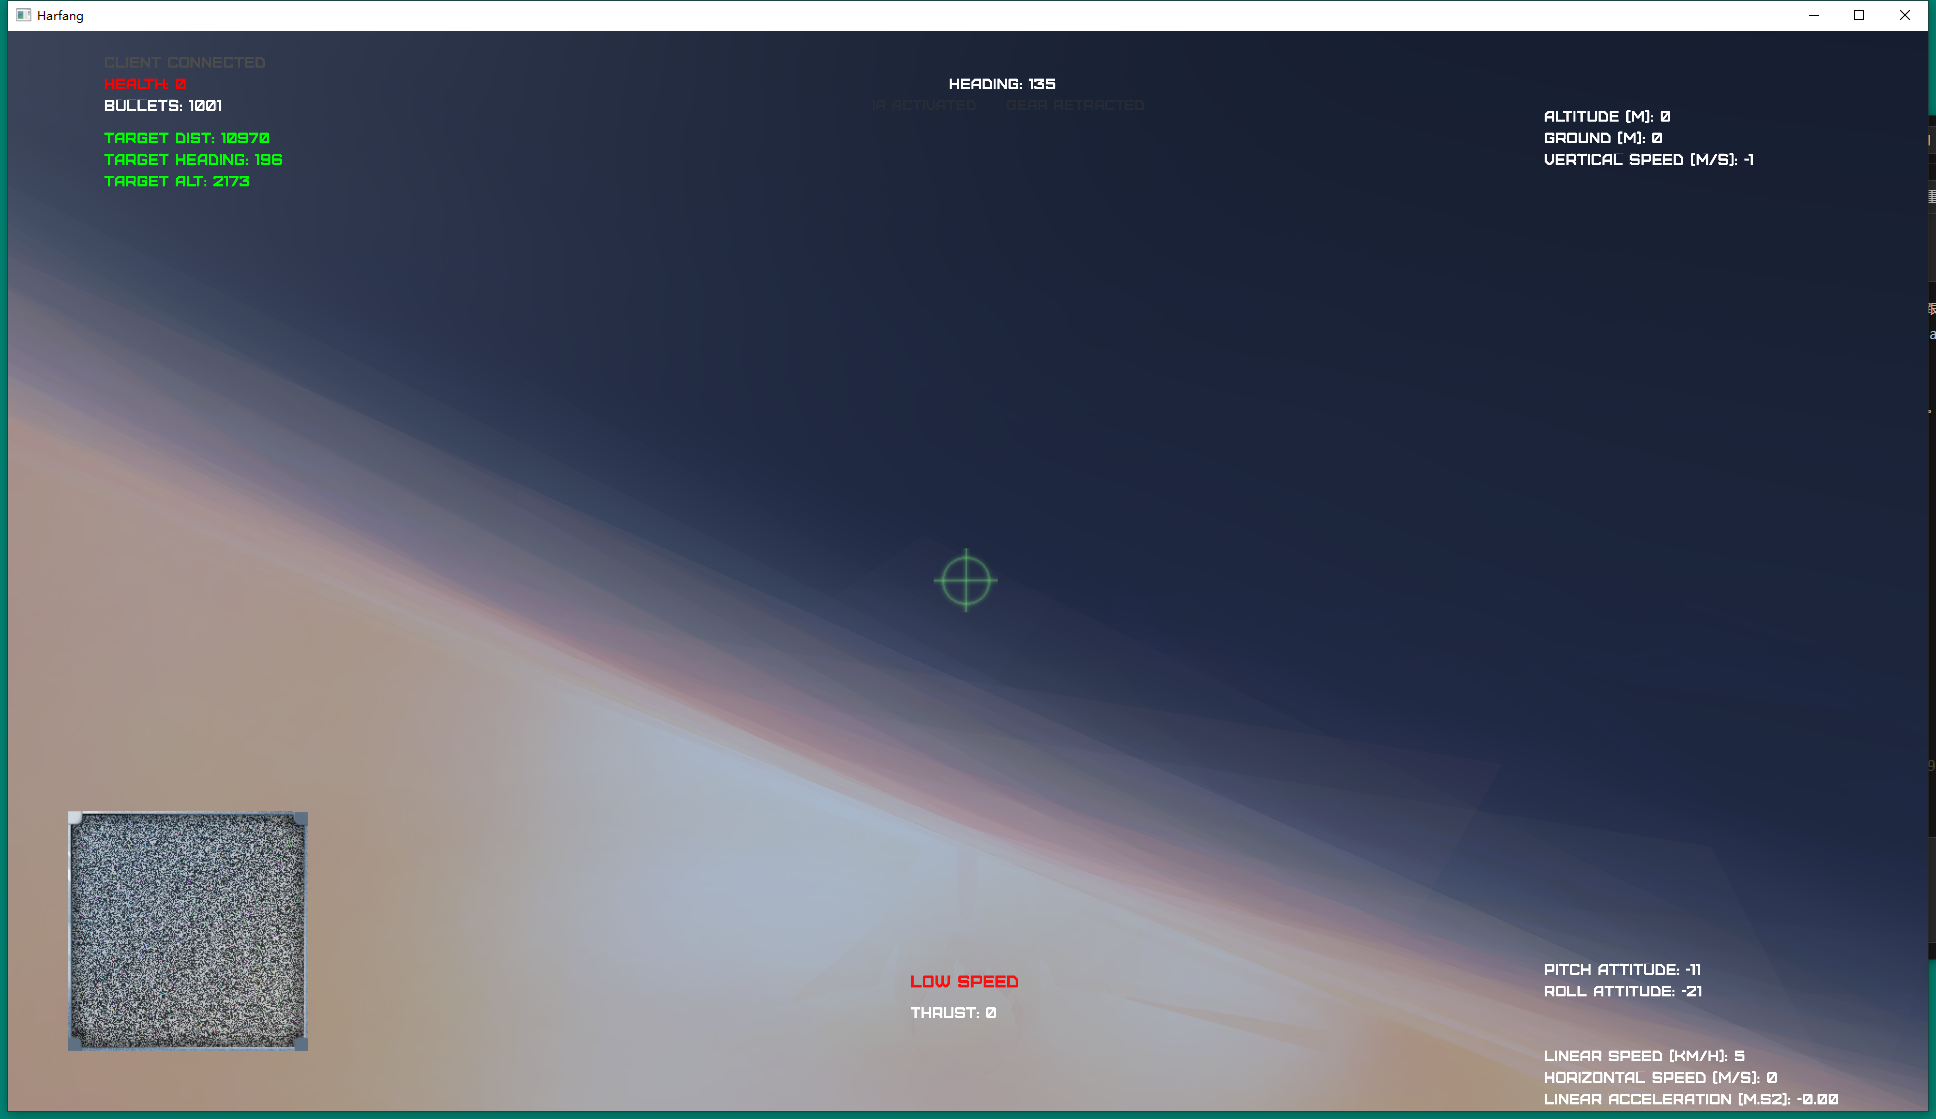
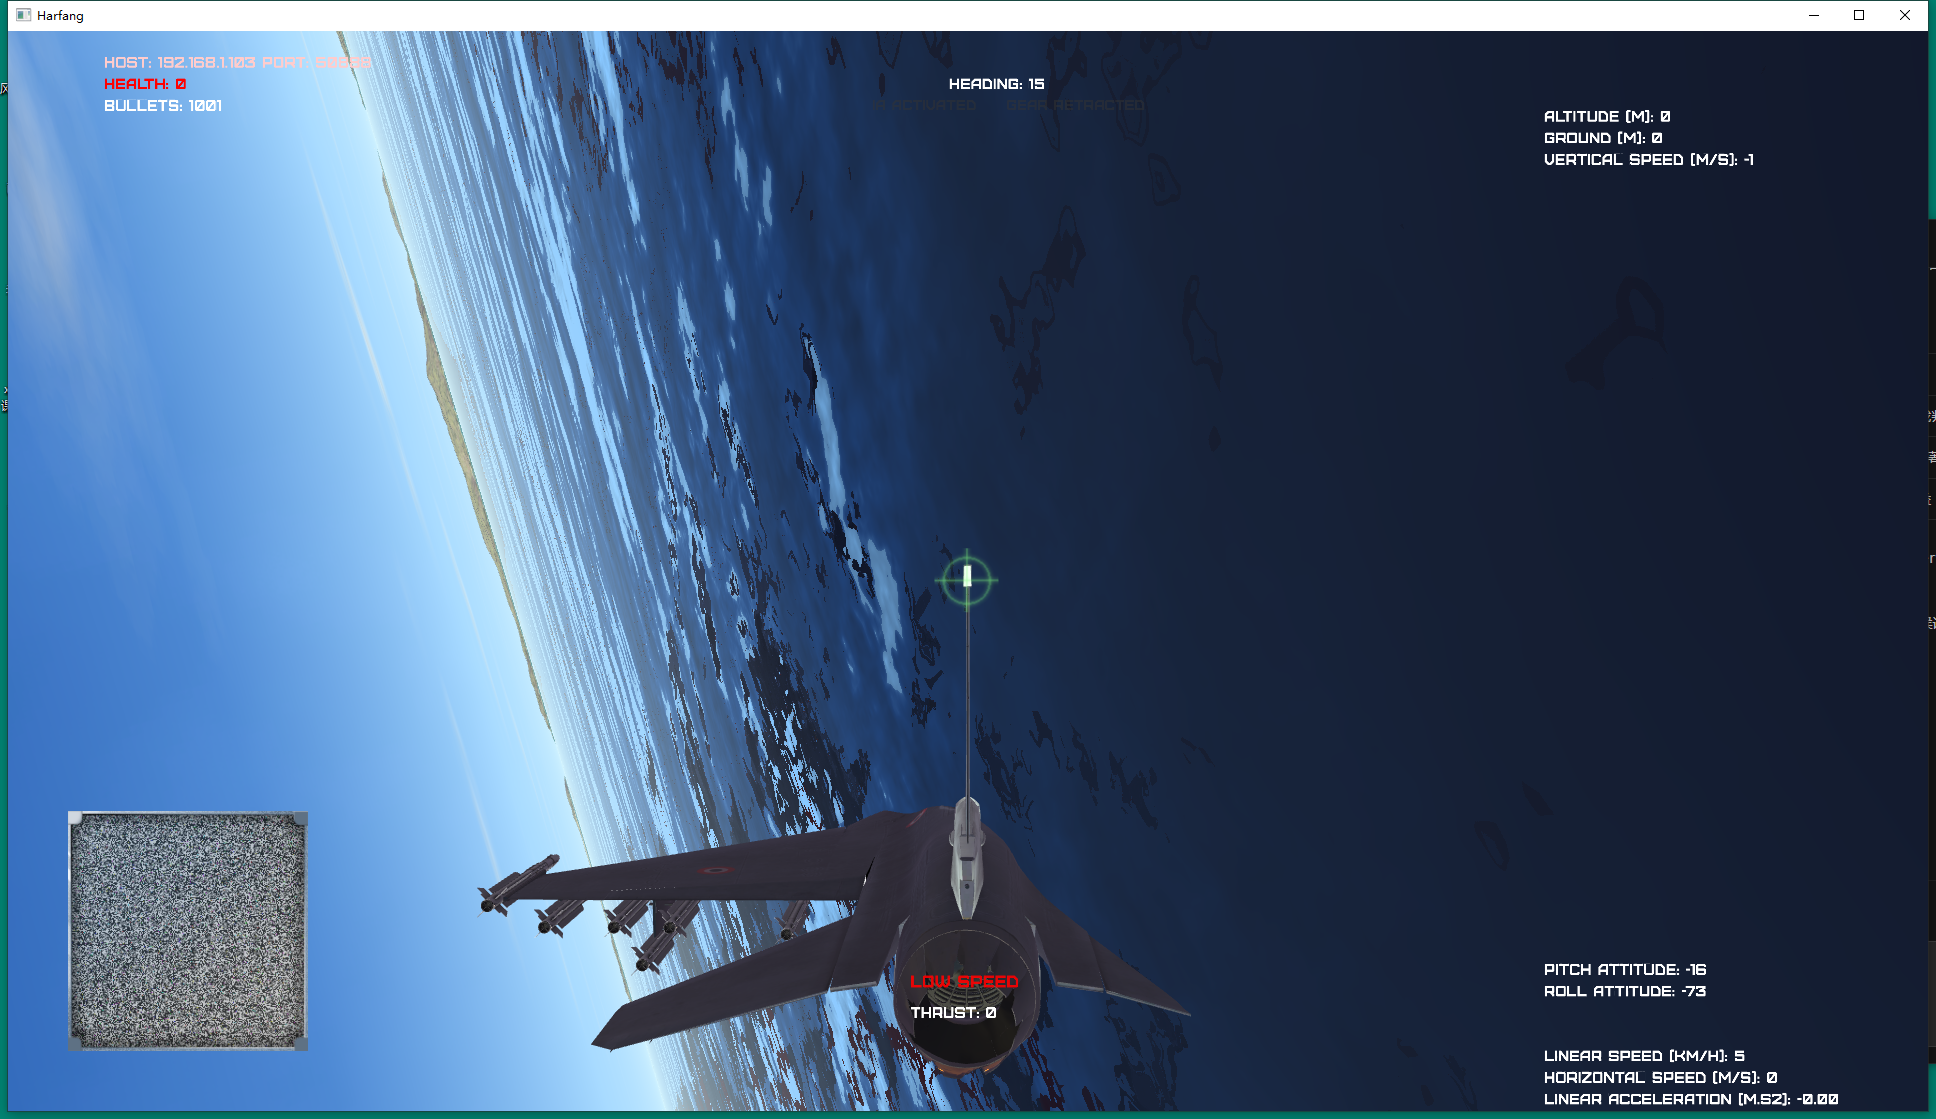
Replace README screenshots with staged dogfight action shots
The previous captures were mostly calm-flight or post-crash chase-cam
frames. This round stages a head-on merge (blues northbound vs reds
southbound 1.4 km apart, all on IA with targets pre-set and commander
task labels hung before the fight), then watches the live view and
only saves full-res frames at good moments:

- screenshot_hero.png: two jets in-frame, missile smoke trail streaking
  toward the target, both ALLY_1 (green) and ENNEMY_1 (red) ENGAGE
  labels readable
- screenshot_prediction.png (new): green prediction polyline with +5s
  cross marker ahead of the player jet, HUD target info at left
- screenshot_commander_engage.png: dual task labels + missile trail
  mid-fight (replaces the two weaker single-label shots)

diff --git a/README.md b/README.md
@@ -53,11 +53,7 @@ cd llm_commander
 
 ![指挥官任务分配](docs/images/screenshot_commander_engage.png)
 
-▲ 绿色标签 `ALLY_1 ENGAGE ENNEMY_1`（本图指挥蓝方示例）：飞机前方同时画出绿色预测航线与 `+5s` 标记
-
-![敌机任务标签](docs/images/screenshot_commander_labels.png)
-
-▲ 红色标签 `ENNEMY_1 ENGAGE ALLY_1`：敌机正在追击我方
+▲ 2v2 交战实拍：绿色 `ALLY_1 ENGAGE ennemy_1` 与红色 `ENNEMY_1 ENGAGE ALLY_1` 任务标签同框，导弹拉烟正在飞向目标
 
 常用参数：`--dry-run`（只打印不下发）、`--once`（单轮决策）、`--duration N`（N 秒后退出）。
 
@@ -77,6 +73,10 @@ cd llm_commander
 ## 未来轨迹预测
 
 沙盒 3D 视图为每架 JSBSim 飞机实时绘制**未来 10 秒预测航线**：基于当前转弯率 / 俯仰率 / 加速度做指数衰减的运动学外推，友军绿色、敌军红色，每 5 秒一个十字标记 + `+Ns` 标签（随距离自动缩放，远处依然可读）。
+
+![轨迹预测](docs/images/screenshot_prediction.png)
+
+▲ 我机前方的绿色预测航线与 `+5s` 十字标记（HUD 左侧为目标距离/航向/锁定信息）
 
 配置：`config.json` → `"FlightPrediction": {"enabled": true, "horizon_s": 10, "steps": 20}`
 
